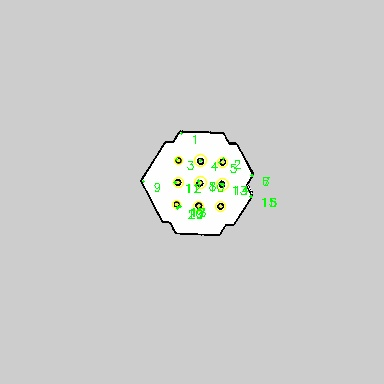
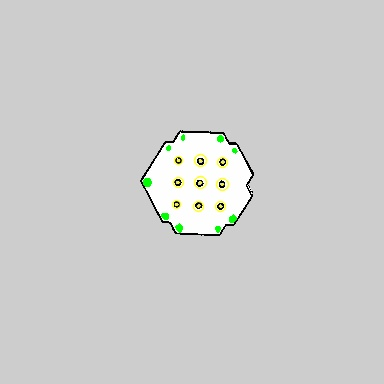
Some stuff going on, i honsetly dont kno anymore what to write here, next step: trying hough circles with sift descriptors and so on lets sett

diff --git a/src/kayyalakkakam/include/kayyalakkakam/EKF_Localization.cpp b/src/kayyalakkakam/include/kayyalakkakam/EKF_Localization.cpp
@@ -379,7 +379,7 @@ void EKF_Localization::detectCirclesInMap()
     cv::Mat harrisImg;
     cv::Mat harris_norm;
     cv::Mat harris_norm_scaled;
-    cv::Mat greyContourImage;
+    cv::Mat greyErodedContourImage;
     cv::Mat sharpened_image;
     cv::Mat eroded_image;
 
@@ -453,9 +453,6 @@ void EKF_Localization::detectCirclesInMap()
     for (const auto& coords : mapFeatures) {
         out_file << coords.x << ", " << coords.y << ", " << coords.radius << '\n';
         map_cloud->push_back(pcl::PointXYZ(coords.x, coords.y, 0));
-        // ROS_INFO_STREAM("Added Point to Cloud: X=" << coords.x << " Y=" << coords.y);
-        // ROS_INFO_STREAM("MAP FEATURE SIZE: " << mapFeatures.size() << "\n");
-        // ROS_INFO_STREAM("MAP CLOUD SIZE: " << map_cloud->points.size() << "\n");
     }
 
     out_file.close();
@@ -475,35 +472,32 @@ void EKF_Localization::detectCirclesInMap()
     // Save the resulting image with emphasized outer edge
     cv::imwrite("/home/cocokayya18/Probabilistic-Robotics-Lab/src/kayyalakkakam/src/map/Contour_Picture.jpg", contourImage);
 
-    // Sharpen the Image
-    // cv::Mat kernel = (cv::Mat_<float>(3, 3) << 0, -1, 0, 
-    //                                     -1, 5, -1, 
-    //                                     0, -1, 0);
-    
-    // cv::filter2D(gaussianImg, sharpened_image, -1, kernel);
+    cv::Mat element = cv::getStructuringElement(cv::MORPH_RECT, cv::Size(3, 3));
+    cv::erode(map_image, eroded_image, element);
 
-    // cv::imwrite("/home/cocokayya18/Probabilistic-Robotics-Lab/src/kayyalakkakam/src/map/Sharpened_Picture.jpg", sharpened_image);
+    cv::imwrite("/home/cocokayya18/Probabilistic-Robotics-Lab/src/kayyalakkakam/src/map/Erored_Picture.jpg", eroded_image);
 
-    // cv::Mat element = cv::getStructuringElement(cv::MORPH_RECT, cv::Size(4, 4));
-    // cv::erode(sharpened_image, eroded_image, element);
+    cv::cvtColor(eroded_image, greyErodedContourImage, CV_BGR2GRAY);
+    greyErodedContourImage.convertTo(greyErodedContourImage, CV_32FC1);
 
-    // cv::imwrite("/home/cocokayya18/Probabilistic-Robotics-Lab/src/kayyalakkakam/src/map/Erored_Picture.jpg", eroded_image);
+    int thresh = 67; // Threshold for corner detection
+    int blockSize = 2; // Size of neighborhood considered for corner detection
+    int apertureSize = 11; // Aperture parameter for the Sobel operator
+    double k = 0.0; // Harris detector free parameter
 
-    cv::cvtColor(contourImage, greyContourImage, CV_BGR2GRAY);
-
-    cv::cornerHarris(map_image, harrisImg, 2, 3, 0.04, cv::BORDER_DEFAULT);
-    cv::normalize(harrisImg, harris_norm, 0, 255, cv::NORM_MINMAX, CV_32FC1, cv::Mat());
+    cv::cornerHarris(greyErodedContourImage, harrisImg, blockSize, apertureSize, k);
+    cv::normalize(harrisImg, harris_norm, 0, 255, cv::NORM_MINMAX, CV_32FC1);
     cv::convertScaleAbs(harris_norm, harris_norm_scaled);
 
-    int thresh = 205; // Threshold for corner detection
-    std::vector<cv::Point> corners;
-    int cornerId = 0;
+    std::vector<std::pair<int, cv::Point>> corners;
+    int cornerId = 1;
     for (int i = 0; i < harris_norm.rows; i++) {
         for (int j = 0; j < harris_norm.cols; j++) {
             if ((int)harris_norm.at<float>(i, j) > thresh) {
-                corners.push_back(cv::Point(j, i));
+                corners.push_back(std::make_pair(cornerId, cv::Point(j, i)));
                 cv::circle(colorImage, cv::Point(j, i), 1, cv::Scalar(0, 255, 0), -1);
-                cv::putText(colorImage, std::to_string(++cornerId), cv::Point(j + 10, i + 10), cv::FONT_HERSHEY_SIMPLEX, 0.4, cv::Scalar(0, 255, 0), 1);
+                // cv::putText(colorImage, std::to_string(cornerId), cv::Point(j + 10, i + 10), cv::FONT_HERSHEY_SIMPLEX, 0.4, cv::Scalar(0, 255, 0), 1);
+                cornerId += 1;
             }
         }
     }
@@ -527,8 +521,8 @@ void EKF_Localization::detectCirclesInMap()
     out_file2 << std::fixed;
 
     for (const auto& corner : corners) {
-        ROS_INFO_STREAM("Corner x: " << corner.x << " y: " << corner.y << "\n");
-        out_file2 << corner.x << "," << corner.y << "\n";
+        ROS_INFO_STREAM("Corner x: " << corner.second.x << " y: " << corner.second.y << "\n");
+        out_file2 << corner.first << "," << corner.second.x << "," << corner.second.y << "\n";
     }
 
     out_file2.close();

diff --git a/src/kayyalakkakam/src/code/HarrisCornerDetection.py b/src/kayyalakkakam/src/code/HarrisCornerDetection.py
@@ -1,0 +1,48 @@
+import cv2
+import numpy as np
+
+def harris_callback(x):
+    # Threshold and parameter retrieval from trackbars
+    thresh = cv2.getTrackbarPos('Threshold', 'Harris Corners')
+    blockSize = cv2.getTrackbarPos('Block Size', 'Harris Corners')
+    ksize = cv2.getTrackbarPos('K Size', 'Harris Corners')
+    k = cv2.getTrackbarPos('K', 'Harris Corners') / 100.0
+
+    # Harris corner detection with eroded mask
+    gray = np.float32(map_image)
+    dst = cv2.cornerHarris(gray, blockSize, ksize, k)
+    dst_norm = cv2.normalize(dst, None, 0, 255, cv2.NORM_MINMAX)
+
+    # Displaying corners
+    harris_img = colorImage.copy()
+    for i in range(dst_norm.shape[0]):
+        for j in range(dst_norm.shape[1]):
+            if int(dst_norm[i,j]) > thresh:
+                cv2.circle(harris_img, (j,i), 1, (0,255,0), -1)
+
+    cv2.imshow('Harris Corners', harris_img)
+
+
+# Define the erosion kernel
+kernel = cv2.getStructuringElement(cv2.MORPH_RECT, (3, 3))
+
+# Load the main image and apply erosion
+map_path = "/home/cocokayya18/Probabilistic-Robotics-Lab/src/kayyalakkakam/src/map/Contour_Picture.jpg"
+map_image = cv2.imread(map_path, 0)
+eroded_image = cv2.erode(map_image, kernel, iterations=1)
+colorImage = cv2.cvtColor(eroded_image, cv2.COLOR_GRAY2BGR)
+
+
+
+# Create a window and trackbars
+cv2.namedWindow('Harris Corners')
+cv2.createTrackbar('Threshold', 'Harris Corners', 125, 255, harris_callback)
+cv2.createTrackbar('Block Size', 'Harris Corners', 2, 10, harris_callback)
+cv2.createTrackbar('K Size', 'Harris Corners', 3, 31, harris_callback)
+cv2.createTrackbar('K', 'Harris Corners', 4, 100, harris_callback)
+
+# Initial call to the callback function to display the initial state
+harris_callback(0)
+
+cv2.waitKey(0)
+cv2.destroyAllWindows()
